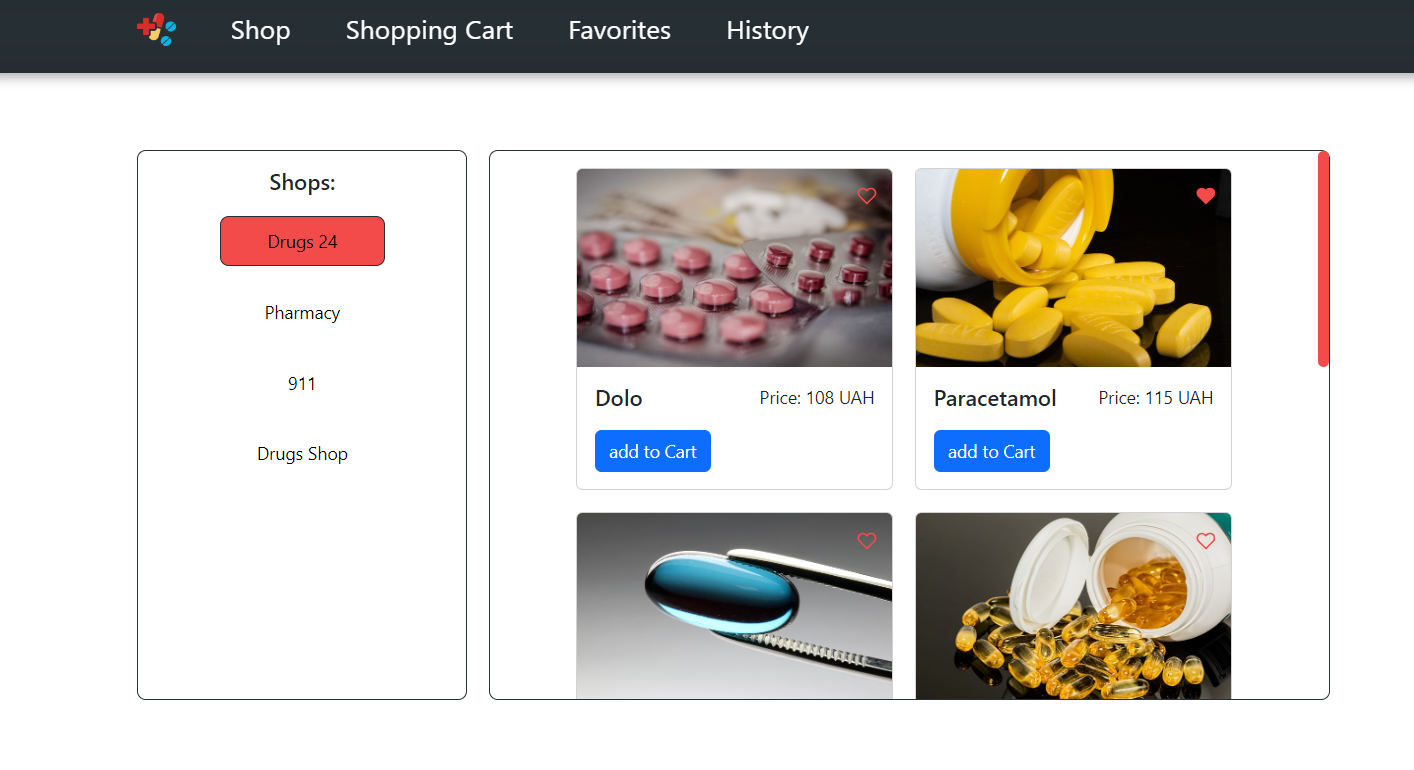
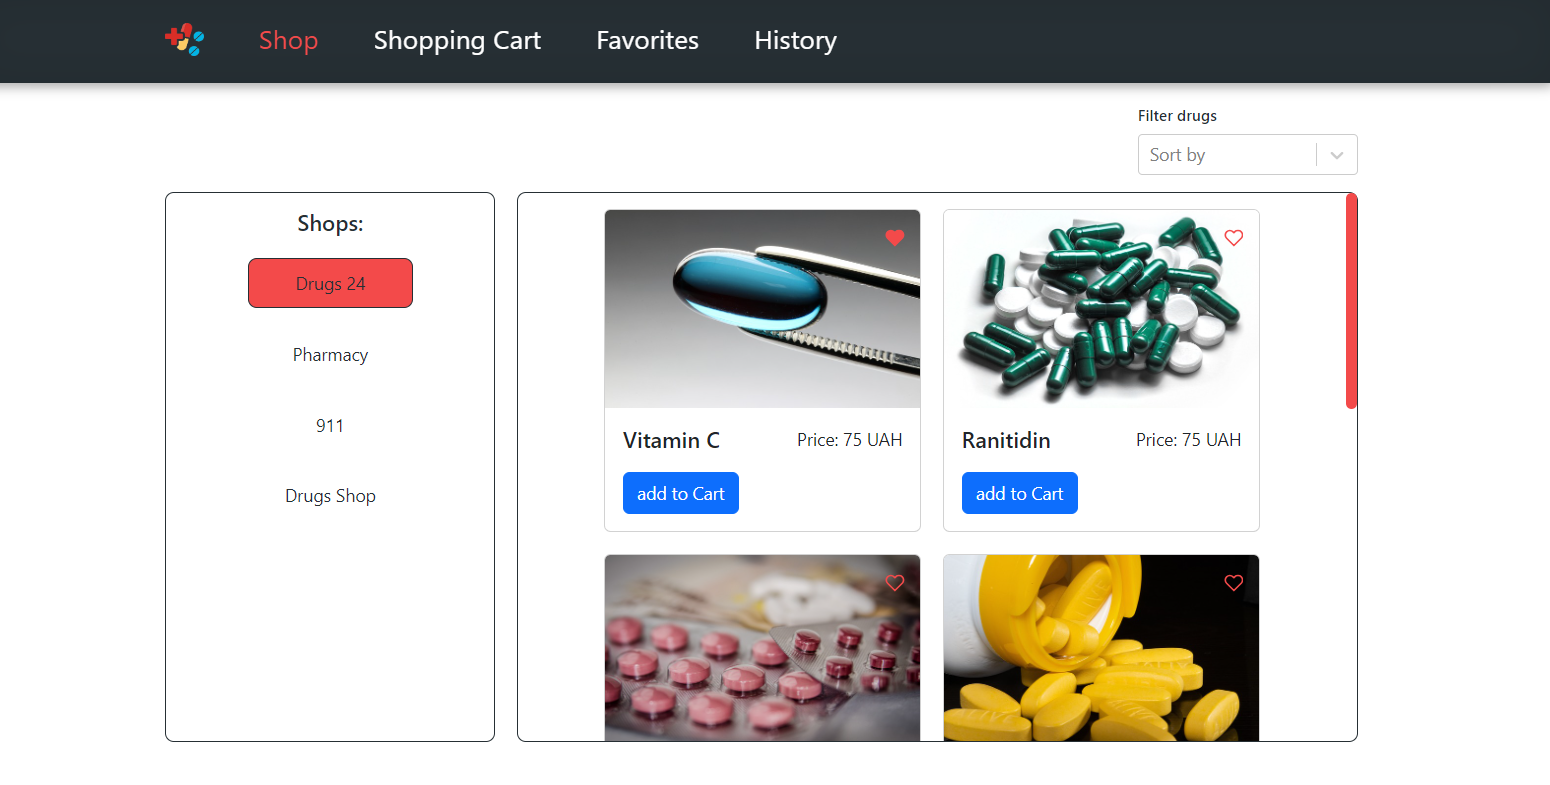
filter added and history list

diff --git a/src/pages/HistoryPage/index.jsx b/src/pages/HistoryPage/index.jsx
@@ -1,7 +1,63 @@
+import { nanoid } from 'nanoid';
+import { useSelector } from 'react-redux';
+import { Link } from 'react-router-dom';
+import { selectCartsHistory } from '../../redux/shopsSelectors';
+
 function HistoryPage() {
+  const historyArray = useSelector(selectCartsHistory);
+
   return (
     <main>
-      <div className="container">History</div>
+      <div className="container">
+        <h1 style={{ fontSize: '26px' }}>Your history of carts:</h1>
+        <ul style={{ display: 'flex', flexWrap: 'wrap', gap: '10px' }}>
+          {historyArray.length > 0 ? (
+            historyArray.map(item => (
+              <li
+                drug={item}
+                key={nanoid()}
+                style={{
+                  borderRadius: '8px',
+                  border: '1px solid #262f34',
+                  padding: '10px',
+                  marginTop: '20px',
+                }}
+              >
+                <p>DrugsList: </p>
+                <ul>
+                  {item.drugsList.map((drug, index) => (
+                    <li key={nanoid()}>
+                      <p
+                        style={{
+                          display: 'inline-block',
+                        }}
+                      >
+                        {index + 1}.
+                      </p>
+                      <p
+                        style={{
+                          display: 'inline-block',
+                        }}
+                      >
+                        name: {drug.drugName}
+                      </p>
+                      <p>price: {drug.price}</p>
+                      <p>total: {drug.total}</p>
+                    </li>
+                  ))}
+                </ul>
+                <p>Total Price: {item.totalPrice}</p>
+                <p>Date: {item.createdAt.slice(0, 10)}</p>
+              </li>
+            ))
+          ) : (
+            <>
+              <p>Your history is still empty...</p>
+              <Link to="/">Back to shopping</Link>
+            </>
+          )}
+        </ul>
+      </div>
     </main>
   );
 }

diff --git a/src/components/DrugsList/index.jsx b/src/components/DrugsList/index.jsx
@@ -1,17 +1,32 @@
 import DrugsItem from 'components/DrugsItem';
 import { useSelector } from 'react-redux';
-import { selectDrugsByShop } from '../../redux/shopsSelectors';
+import { selectDrugsByShop, selectFilter } from '../../redux/shopsSelectors';
 import { DrugsBox } from './DrugsList.styled';
 import { nanoid } from 'nanoid';
+import { useEffect, useState } from 'react';
 
 function DrugsList() {
   const drugsByShop = useSelector(selectDrugsByShop);
+  const filter = useSelector(selectFilter);
+  const [filteredList, setFilteredList] = useState([]);
+
+  useEffect(() => {
+    if (filter === 'low') {
+      const low = [...drugsByShop].sort((a, b) => a.price - b.price);
+      setFilteredList(low);
+    } else if (filter === 'high') {
+      const high = [...drugsByShop].sort((a, b) => b.price - a.price);
+      setFilteredList(high);
+    } else {
+      setFilteredList(drugsByShop);
+    }
+  }, [drugsByShop, filter]);
 
   return (
     <DrugsBox>
       <ul>
-        {drugsByShop.length > 0 &&
-          drugsByShop.map(item => <DrugsItem drug={item} key={nanoid()} />)}
+        {filteredList.length > 0 &&
+          filteredList.map(item => <DrugsItem drug={item} key={nanoid()} />)}
       </ul>
     </DrugsBox>
   );

diff --git a/src/components/DrugsFilter/index.jsx b/src/components/DrugsFilter/index.jsx
@@ -1,0 +1,32 @@
+import Select from 'react-select';
+import { Title, SelectBox } from './DrugsFilter.styled';
+import { useDispatch } from 'react-redux';
+import { changeFilter } from '../../redux/shopsSlice';
+
+function DrugsFilter() {
+  const dispatch = useDispatch();
+
+  function setFilter(value) {
+    dispatch(changeFilter(value));
+  }
+
+  return (
+    <SelectBox>
+      <Title>Filter drugs</Title>
+      <Select
+        options={[
+          { value: 'low', label: 'Price low to high' },
+          { value: 'high', label: 'Price high to low' },
+          { value: 'all', label: 'No filters' },
+        ]}
+        aria-label="Filter drugs"
+        placeholder="Sort by"
+        onChange={e => {
+          setFilter(e.value);
+        }}
+      />
+    </SelectBox>
+  );
+}
+
+export default DrugsFilter;

diff --git a/src/redux/shopsSlice.js b/src/redux/shopsSlice.js
@@ -7,6 +7,7 @@ const shopInitialState = {
   cartList: [],
   favoritesDrugs: [],
   cartsHistory: [],
+  filter: 'all',
   isLoading: false,
   error: null,
 };
@@ -53,6 +54,9 @@ const shopSlice = createSlice({
     clearCart(state, _) {
       state.cartList = [];
     },
+    changeFilter(state, { payload }) {
+      state.filter = payload;
+    },
 
     deleteFavorite(state, { payload }) {
       const index = state.favoritesDrugs.findIndex(
@@ -91,6 +95,12 @@ const shopSlice = createSlice({
   },
 });
 
-export const { upTotal, downTotal, clearCart, deleteFavorite, addFavorite } =
-  shopSlice.actions;
+export const {
+  upTotal,
+  downTotal,
+  clearCart,
+  deleteFavorite,
+  addFavorite,
+  changeFilter,
+} = shopSlice.actions;
 export const shopReducer = shopSlice.reducer;

diff --git a/src/index.css b/src/index.css
@@ -15,6 +15,7 @@ body {
     sans-serif;
   -webkit-font-smoothing: antialiased;
   -moz-osx-font-smoothing: grayscale;
+  color: var(--color-secondary);
 }
 
 code {
@@ -45,6 +46,7 @@ ul {
 button {
   display: block;
   cursor: pointer;
+  color: inherit;
 }
 
 img {
@@ -56,7 +58,7 @@ img {
 .container {
   width: 100%;
   margin: 0 auto;
-  padding: 130px 15px 30px 15px;
+  padding: 100px 15px 30px 15px;
 }
 
 @media screen and (min-width: 375px) {
@@ -66,14 +68,14 @@ img {
 }
 @media screen and (min-width: 768px) {
   .container {
-    padding: 150px 20px 50px 20px;
+    padding: 100px 20px 50px 20px;
     max-width: 768px;
   }
 }
 
 @media screen and (min-width: 1440px) {
   .container {
-    padding: 150px 50px;
+    padding: 100px 50px;
     max-width: 1184px;
   }
 }

diff --git a/src/pages/HomePage/index.jsx b/src/pages/HomePage/index.jsx
@@ -4,6 +4,7 @@ import DrugsList from '../../components/DrugsList';
 import { GridBox } from './HomePage.styled';
 import { useDispatch } from 'react-redux';
 import { getShopsList } from '../../redux/shopsOperations';
+import DrugsFilter from 'components/DrugsFilter';
 
 function HomePage() {
   const dispatch = useDispatch();
@@ -14,10 +15,13 @@ function HomePage() {
 
   return (
     <main>
-      <GridBox className="container ">
-        <Aside />
-        <DrugsList />
-      </GridBox>
+      <div className="container ">
+        <DrugsFilter />
+        <GridBox>
+          <Aside />
+          <DrugsList />
+        </GridBox>
+      </div>
     </main>
   );
 }

diff --git a/src/redux/shopsSelectors.js b/src/redux/shopsSelectors.js
@@ -2,6 +2,7 @@ export const selectShopsList = state => state.shopsList;
 export const selectDrugsByShop = state => state.drugsByShop;
 export const selectCartList = state => state.cartList;
 export const selectFavoritesDrugs = state => state.favoritesDrugs;
+export const selectFilter = state => state.filter;
 export const selectCartsHistory = state => state.cartsHistory;
 export const selectIsLoading = state => state.isLoading;
 export const selectError = state => state.error;

diff --git a/src/pages/FavoritesPage/index.jsx b/src/pages/FavoritesPage/index.jsx
@@ -10,6 +10,9 @@ function FavoritesPage() {
   return (
     <main>
       <div className="container">
+        <h1 style={{ fontSize: '26px', marginBottom: '20px' }}>
+          Your list of favorites:
+        </h1>
         <ul style={{ display: 'flex', flexWrap: 'wrap', gap: '10px' }}>
           {favoritesArray.length > 0 ? (
             favoritesArray.map(item => <DrugsItem drug={item} key={nanoid()} />)

diff --git a/src/components/DrugsFilter/DrugsFilter.styled.js b/src/components/DrugsFilter/DrugsFilter.styled.js
@@ -1,0 +1,15 @@
+import styled from 'styled-components';
+
+export const SelectBox = styled.div`
+  margin-bottom: 15px;
+  width: 200px;
+  margin-left: auto;
+`;
+
+export const Title = styled.p`
+  margin-bottom: 8px;
+  font-weight: 500;
+  font-size: 14px;
+  line-height: 1.29;
+  color: var(--color-secondary);
+`;
